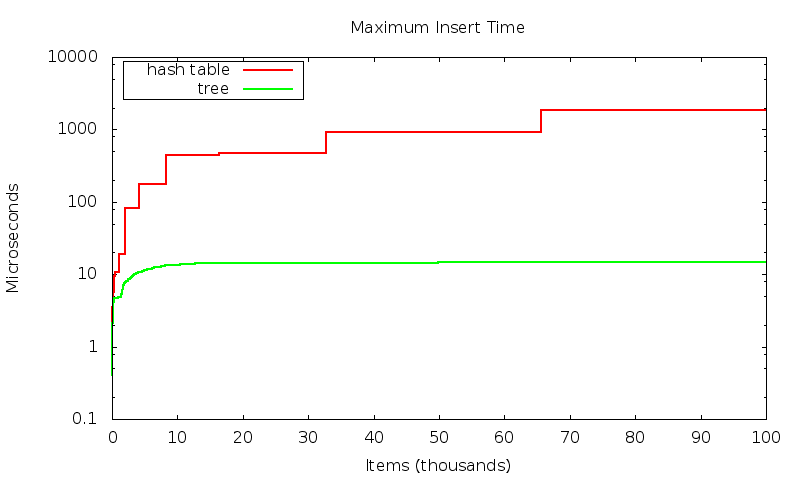
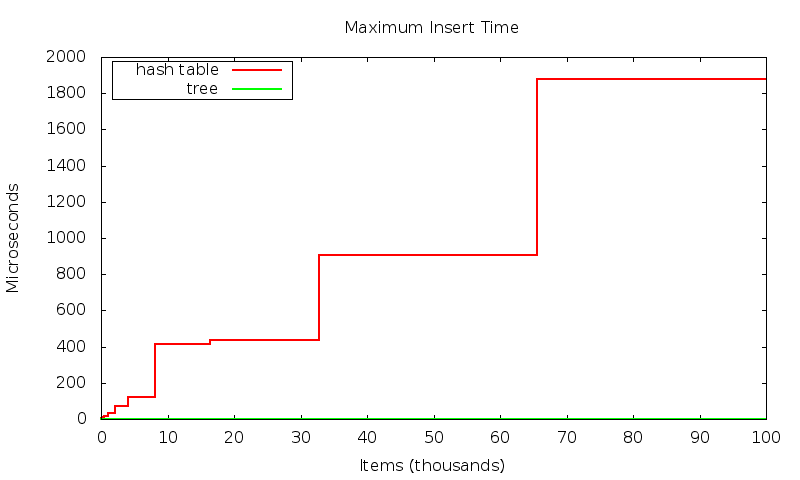
operations in bluk for accuracy

diff --git a/src/benchmark/insert-maxtime.cc b/src/benchmark/insert-maxtime.cc
@@ -61,47 +61,35 @@ void test(const unsigned size, const unsigned samples) {
   high_priority zz;
   std::vector<T> p(samples);
   std::vector<U> q(samples);
-  std::vector<size_t> l1(samples,0), l2(samples,0);
-  std::vector<size_t> s1(samples,0), s2(samples,0);
+  //std::vector<size_t> l1(samples,0), l2(samples,0);
+  //std::vector<size_t> s1(samples,0), s2(samples,0);
+  size_t l1(0), l2(0), s1(0), s2(0);
   for (unsigned j = 0; j < size; ++j) { 
     const auto x = some::random();
+    __sync_synchronize();
+    const size_t begin = get_time();
+    __sync_synchronize();
     for (unsigned k = 0; k < samples; ++k) { 
-      size_t begin, mid, end;
-      if ((j & 1)) {
-        begin = get_time();
-        __sync_synchronize();
-        p[k].insert(x);
-        __sync_synchronize();
-        mid = get_time(); 
-        __sync_synchronize();
-        q[k].insert(x);
-        __sync_synchronize();
-        end = get_time();
-        s1[k] = mid-begin;
-        s2[k] = end-mid;
-        l1[k] = std::max(l1[k], mid-begin);
-        l2[k] = std::max(l2[k], end-mid);
-      } else {
-        begin = get_time();
-        __sync_synchronize();
-        q[k].insert(x);
-        __sync_synchronize();
-        mid = get_time(); 
-        __sync_synchronize();
-        p[k].insert(x);
-        __sync_synchronize();
-        end = get_time();
-        s2[k] = mid-begin;
-        s1[k] = end-mid;
-        l2[k] = std::max(l2[k], mid-begin);
-        l1[k] = std::max(l1[k], end-mid);
-      }
+      p[k].insert(x);
     }
+    __sync_synchronize();
+    const size_t mid = get_time();
+    __sync_synchronize();
+    for (unsigned k = 0; k < samples; ++k) { 
+      q[k].insert(x);
+    }
+    __sync_synchronize();
+    const size_t end = get_time();
+    __sync_synchronize();
+    s1 = mid - begin;
+    s2 = end - mid;
+    l1 = std::max(l1, s1);
+    l2 = std::max(l2, s2);
     cout << static_cast<double>(j)/1000.0 << '\t'
-         << avg(l1)/1000.0 << '\t'
-         << avg(l2)/1000.0 << '\t' 
-         << static_cast<double>(minimum(s1))/static_cast<double>(1) << '\t'
-         << static_cast<double>(minimum(s2))/static_cast<double>(1) << endl;
+         << static_cast<double>(l1)/(1000.0 * static_cast<double>(samples)) << '\t'
+         << static_cast<double>(l2)/(1000.0 * static_cast<double>(samples)) << '\t'
+         << static_cast<double>(s1)/(1000.0 * static_cast<double>(samples)) << '\t'
+         << static_cast<double>(s2)/(1000.0 * static_cast<double>(samples)) << endl;
   }
 }
 
@@ -173,7 +161,7 @@ void print_test(std::vector<std::tuple<unsigned, double, double> > x) {
 int main(int argc, char ** argv) {
   srand(0);
   unsigned size = 100000;//00;
-  unsigned samples = 100;
+  unsigned samples = 128;
   if (4 == argc) {
     size = read<unsigned>(argv[2]);
     samples = read<unsigned>(argv[3]);
